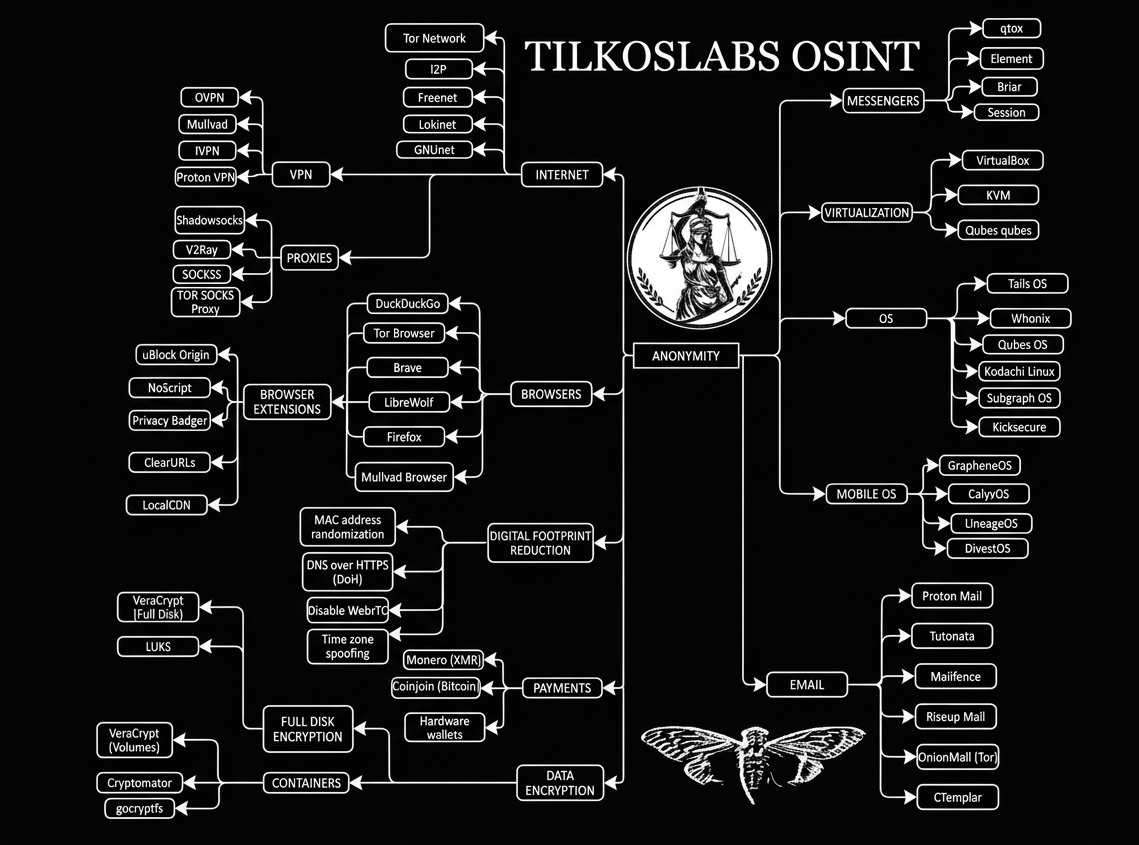
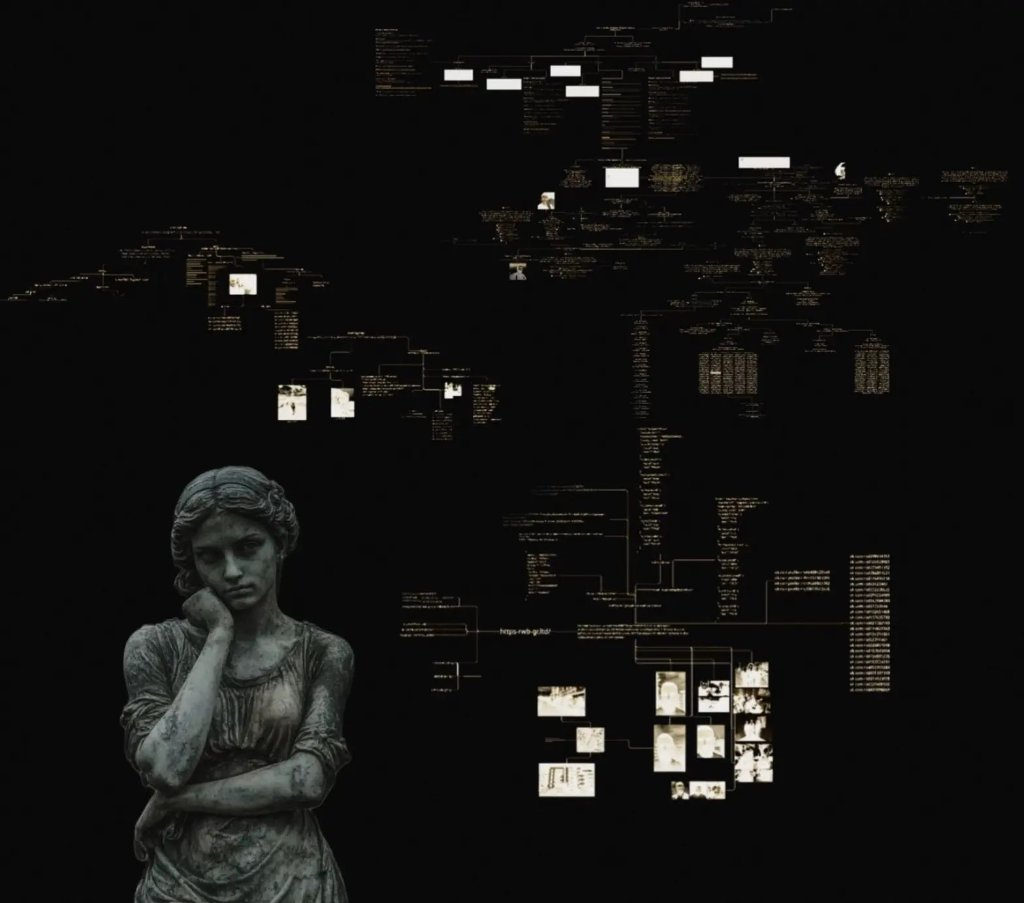
Replace Declassified Intelligence Dossiers cover image with statue OSINT tree visual (v17)

Changed region(s): [[0.0938, 0.0, 1.0, 1.0], [0.0312, 0.3077, 0.0625, 0.3385]]

diff --git a/index.html b/index.html
@@ -372,7 +372,7 @@
                 </div>
                 <div class="split-image">
                     <a href="declassified.html?v=15" style="display: block;">
-                        <img src="assets/images/OpsecOsint.jpg" alt="OPSEC &amp; Open Source Intelligence">
+                        <img src="assets/images/OpsecOsint.jpg?v=17" alt="OPSEC &amp; Open Source Intelligence">
                     </a>
                 </div>
             </div>
